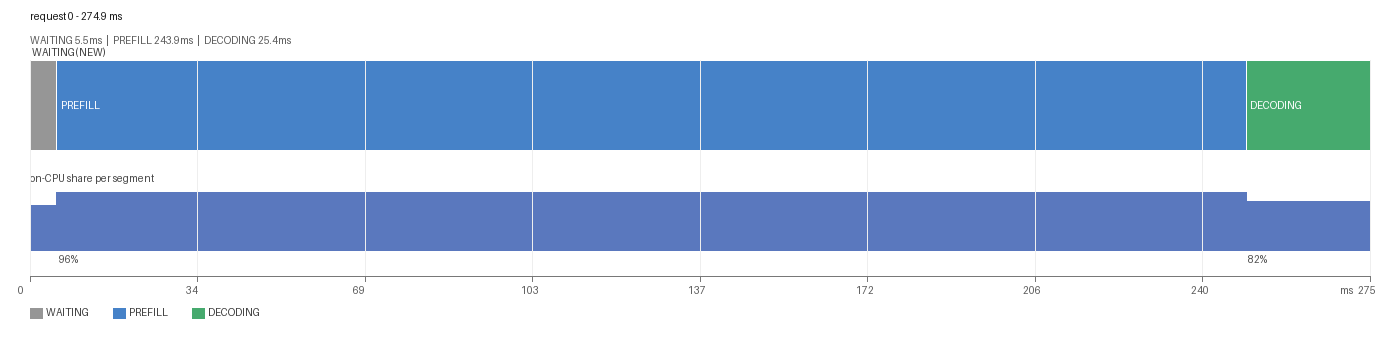
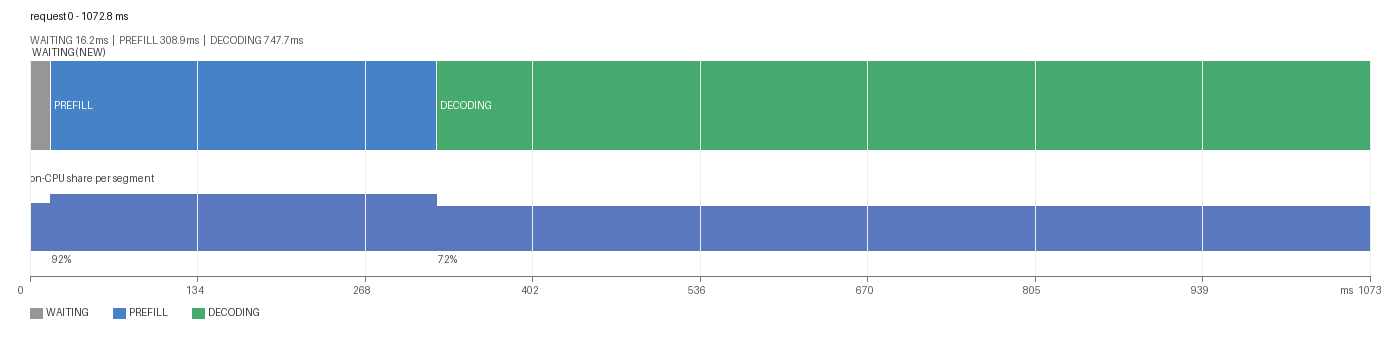
docs(perf): 记录 KV/等待/泳道三张图
- 005 §7：三张图的做法、读法与统一入口
- 附 kv_use / wait_stack / swimlane 三张 PNG

diff --git a/wiki/linux性能分析/005-数据与展示分离.md b/wiki/linux性能分析/005-数据与展示分离.md
@@ -112,3 +112,42 @@ python plot_waterfall.py time_analysis.xlsx --all --out-dir out/
 即“容量饱和”，不是“卡住”。
 
 窄段落的标签会做碰撞检测，放不下就不画（数据仍在表里），避免标签糊成一团。
+
+## 7. 新增三张总览/分解图（2026-11-07）
+
+都只读 sheet、不解析，和瀑布图共用 `plot_common.py` 的配色与字体。
+
+### 7.1 KV 利用率 × 饱和（USE 面板）
+
+`plot_kv_use.py`：左轴 KV usage，右轴 waiting 请求数，粉色区域 = `free_blocks == 0`。
+
+![KV 利用率与饱和](assets/request-trace-e2e/results/kv_use.png)
+
+读法：usage 爬到 100%、粉色区域出现、waiting 同时抬升 → **KV 饱和**；
+usage 高但 waiting 不涨 → 只是缓存占满，还没形成排队。
+
+### 7.2 等待原因堆叠（时序版 waiting_breakdown）
+
+`plot_wait_stack.py`：每时刻有多少请求在等、分别因为什么。
+
+![等待原因堆叠](assets/request-trace-e2e/results/wait_stack.png)
+
+这张图直接给出了两个阶段：前 350ms 七个请求卡在 `CHUNK_BUDGET`，
+之后一个请求独自卡在 `KV_INSUFFICIENT` 直到结束。
+
+### 7.3 多请求泳道图
+
+`plot_swimlane.py`：一请求一行，看批次怎么拼、谁被谁挡住。
+
+![多请求泳道](assets/request-trace-e2e/results/swimlane.png)
+
+能一眼看出：8 个请求一起等、一起 prefill、一起 decode，中途 4 个被抢占（红色段）。
+
+### 7.4 统一入口
+
+```bash
+python plot_waterfall.py  time_analysis.xlsx --request-id 0 -o wf.png
+python plot_kv_use.py     time_analysis.xlsx -o kv_use.png
+python plot_wait_stack.py time_analysis.xlsx -o wait_stack.png
+python plot_swimlane.py   time_analysis.xlsx -o swimlane.png [--max N]
+```
